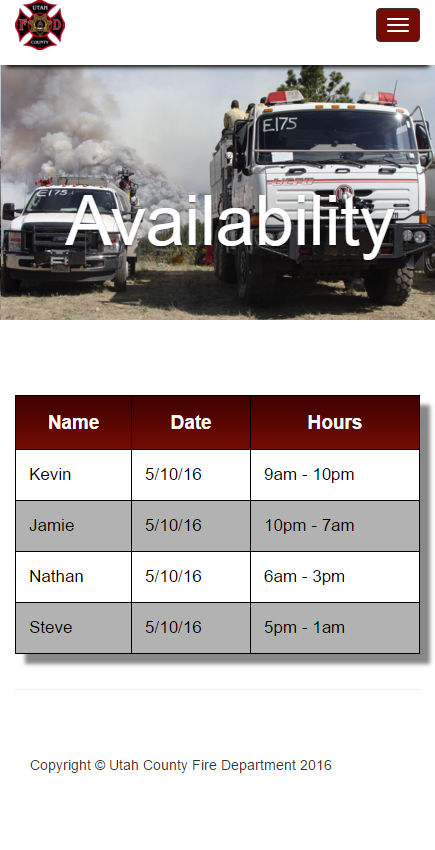
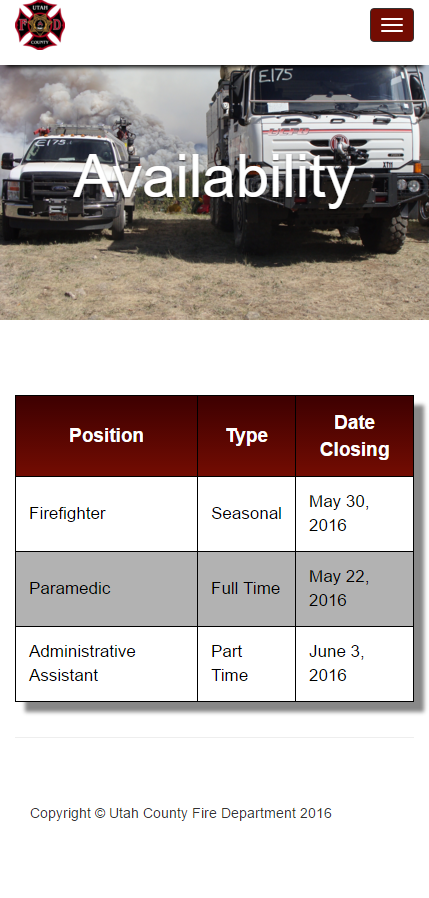
updated availabilty page with correct info

diff --git a/availability.html b/availability.html
@@ -147,57 +147,46 @@
               <table >
                   <tr>
                       <td>
-                          Name
+                          Position
                       </td>
                       <td >
-                          Date
+                          Type
                       </td>
                       <td>
-                          Hours
+                          Date Closing
                       </td>
                   </tr>
                   <tr>
                       <td >
-                          Kevin
+                          Firefighter
                       </td>
                       <td>
-                          5/10/16
+                          Seasonal
                       </td>
                       <td>
-                          9am - 10pm
+                          May 30, 2016
                       </td>
                   </tr>
                   <tr>
                       <td >
-                          Jamie
+                          Paramedic
                       </td>
                       <td>
-                          5/10/16
+                          Full Time
                       </td>
                       <td>
-                          10pm - 7am
+                          May 22, 2016
                       </td>
                   </tr>
                   <tr>
                       <td >
-                          Nathan
+                          Administrative Assistant
                       </td>
                       <td>
-                          5/10/16
+                          Part Time
                       </td>
                       <td>
-                          6am - 3pm
-                      </td>
-                  </tr>
-                  <tr>
-                      <td >
-                          Steve
-                      </td>
-                      <td>
-                          5/10/16
-                      </td>
-                      <td>
-                          5pm - 1am
+                          June 3, 2016
                       </td>
                   </tr>
               </table>
